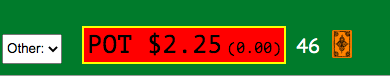
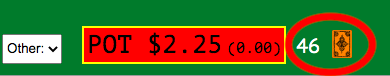
more on instructions

Changed region(s): [[0.7077, 0.1579, 0.9846, 1.0]]

diff --git a/public/instructions.html b/public/instructions.html
@@ -105,7 +105,10 @@
         <li>players can select to see <span class="spec">just their name</span>, their <span class="spec">name with $</span>, or their <span class="spec">name with $ and buy-in $</span>
       </h3>
       <img src="instr_imgs/name_display.png" width=600>&nbsp;&nbsp;<img src="instr_imgs/name.png">
-
+      <h3><li>
+        players can see the <span class="spec">number of cards left in the deck</span> to the right of the POT display:
+        </li></h3>
+      <img src="instr_imgs/num_cards.png">
     </ul>
     <h2>
       <li>GETTING UP FROM YOUR SEAT:</li>
